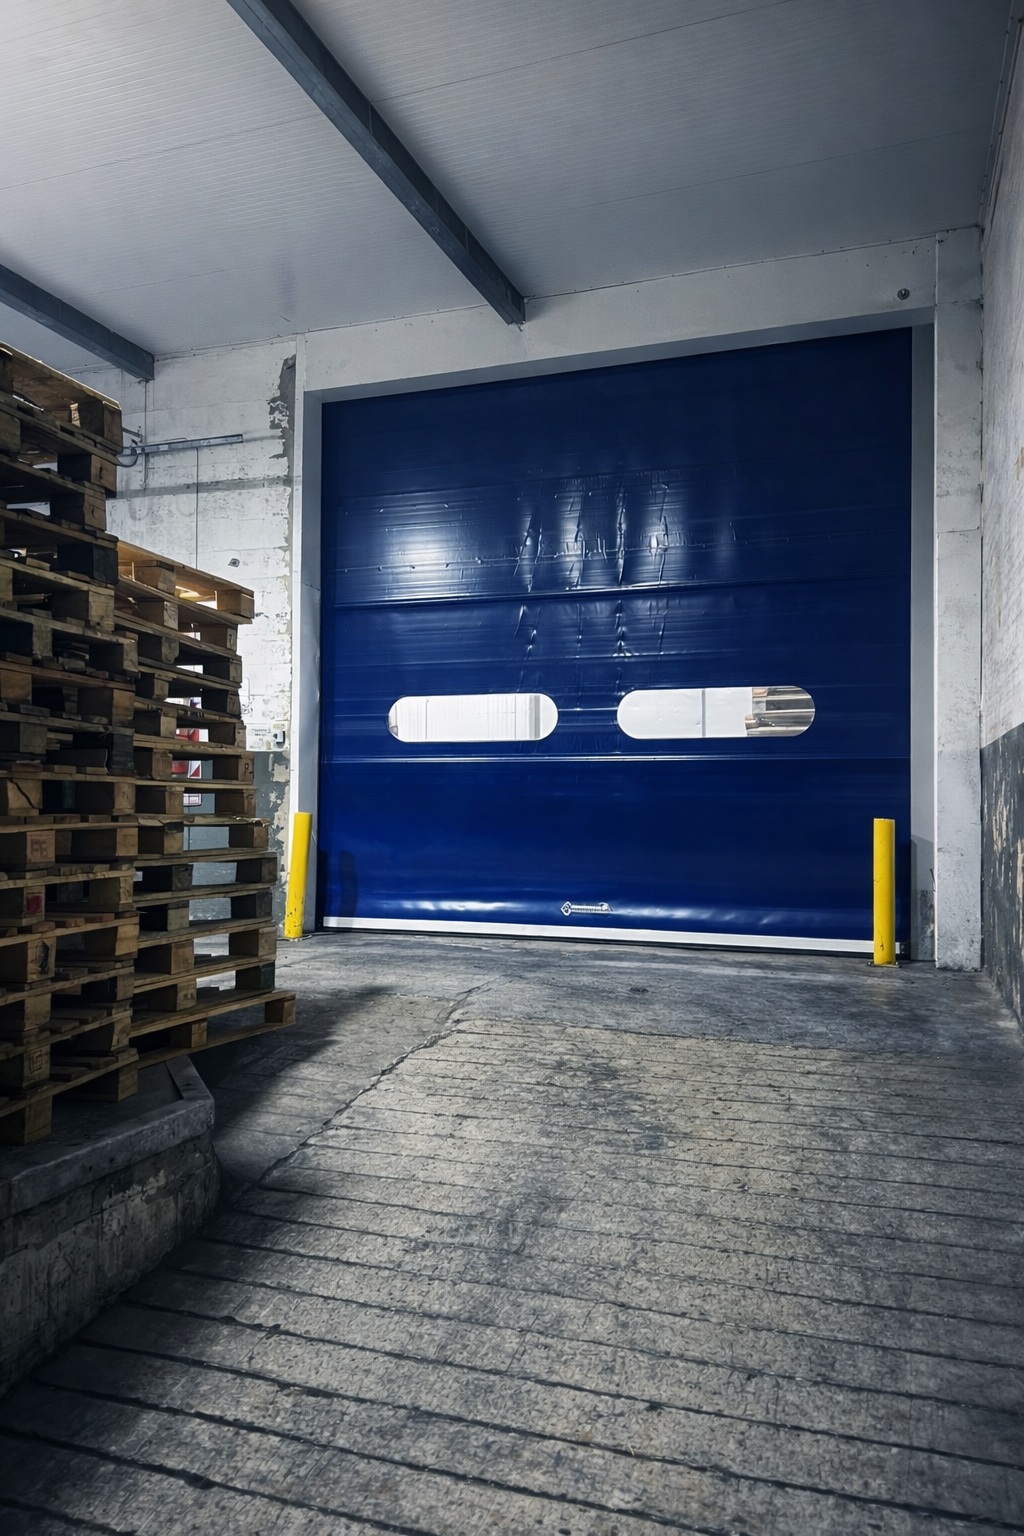
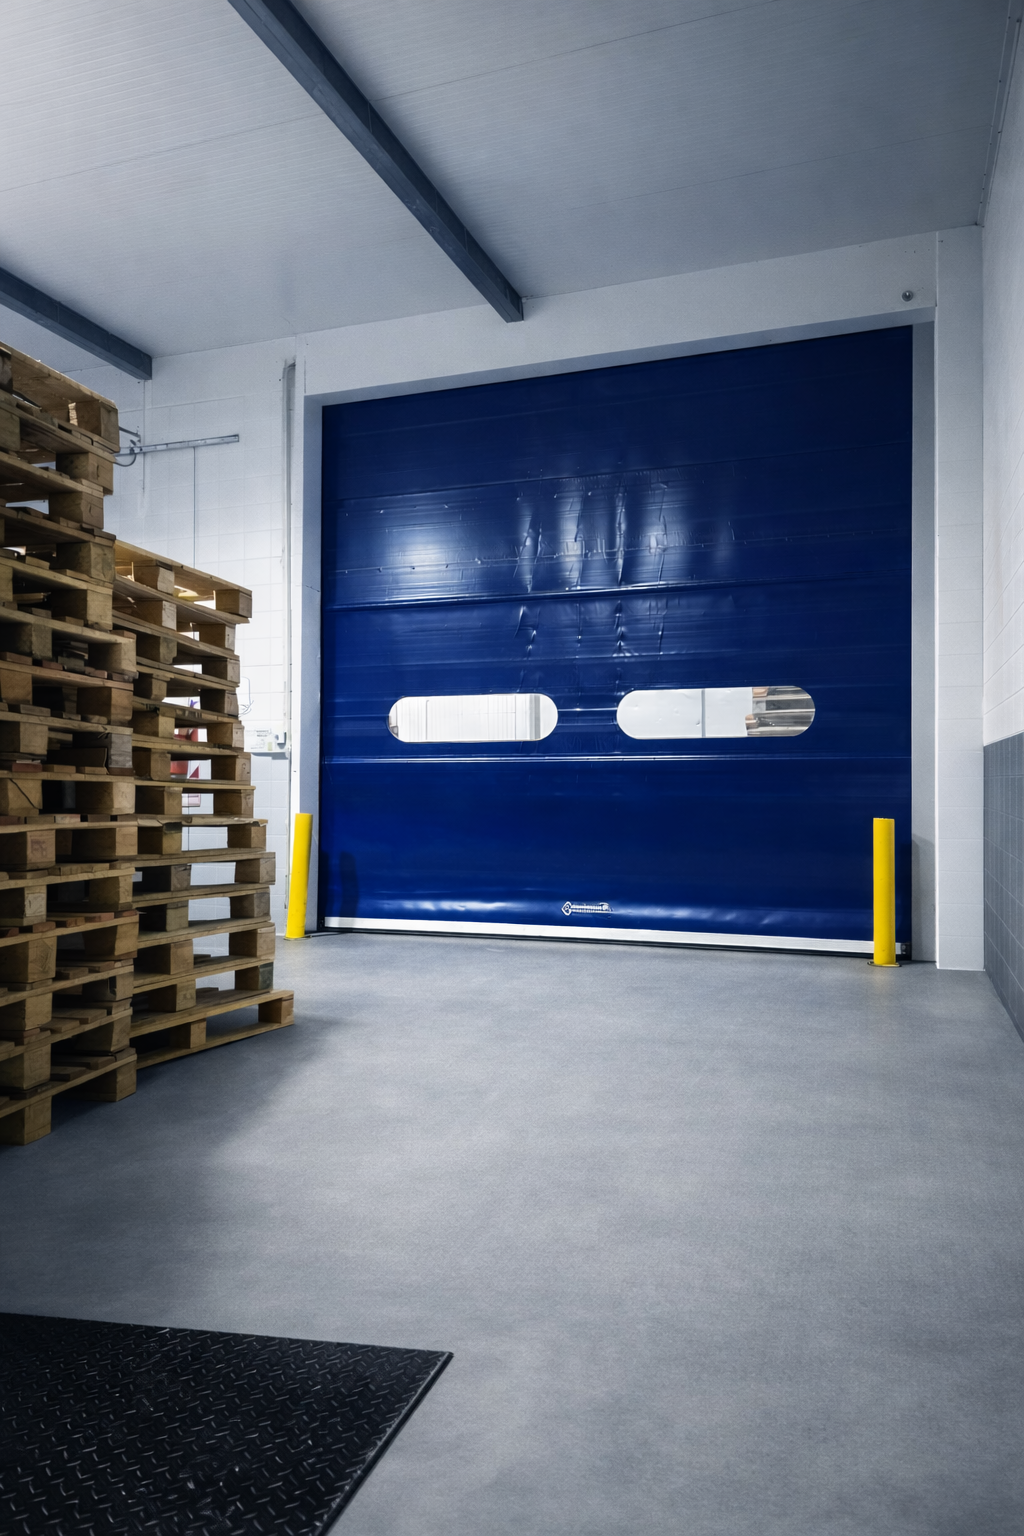
.

diff --git a/styles.css b/styles.css
@@ -622,7 +622,7 @@ textarea {
 }
 
 .stat-card--refrigerado::before {
-  background-image: url("img/2.png");
+  background-image: url("img/3.png");
 }
 
 .stat-card--seco::before {
@@ -692,7 +692,7 @@ textarea {
       rgba(6, 19, 33, 0.82) 40%,
       rgba(6, 19, 33, 0.9) 100%
     ),
-    url("img/deposito2.avif") center/cover no-repeat;
+    url("img/2.png") center/cover no-repeat;
 }
 
 #servicios::after {
